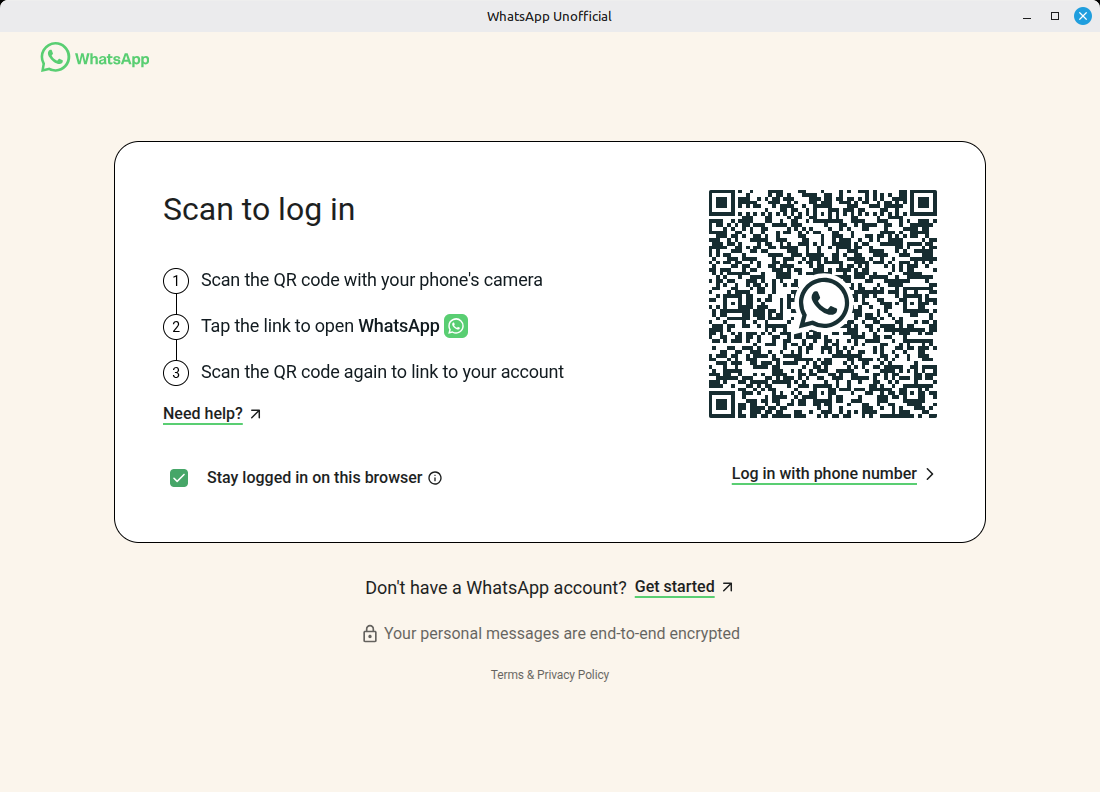
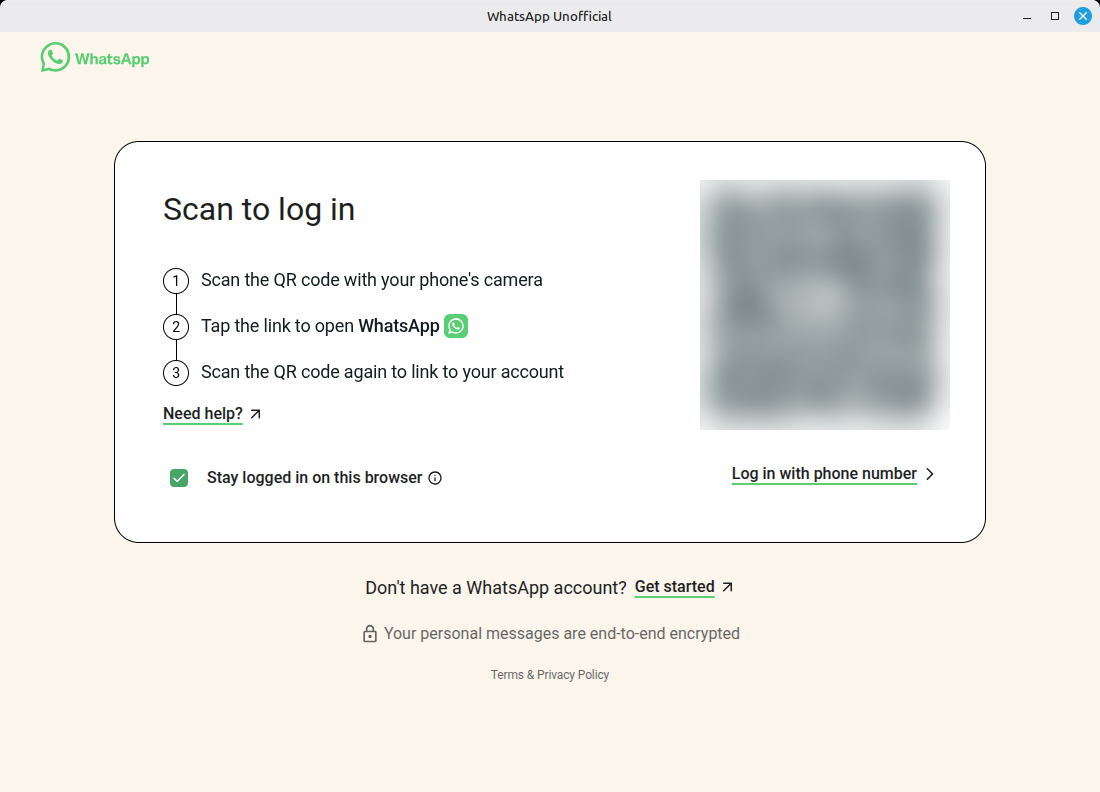
Blur the pairing QR in the store screenshot
The code was already dead -- it expires in seconds and its throwaway
profile was deleted -- but nothing scannable belongs in a published
image.

Changed region(s): [[0.6182, 0.2121, 0.8655, 0.5455]]

diff --git a/docs/screenshots/README.md b/docs/screenshots/README.md
@@ -6,7 +6,8 @@ AppStream metainfo in `packaging/flatpak/` points at this directory by tag:
     https://raw.githubusercontent.com/aschoube/whatsapp-unofficial/v0.1.0/docs/screenshots/<name>.png
 
 Current files (captured against a throwaway profile, so no real account
-appears in them):
+appears in them). The pairing QR is blurred so nothing scannable is
+published:
 
 | File                | Shows                                    |
 | ------------------- | ---------------------------------------- |
